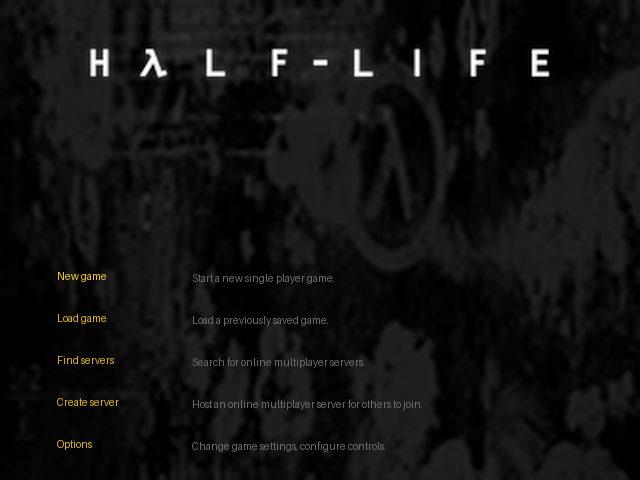
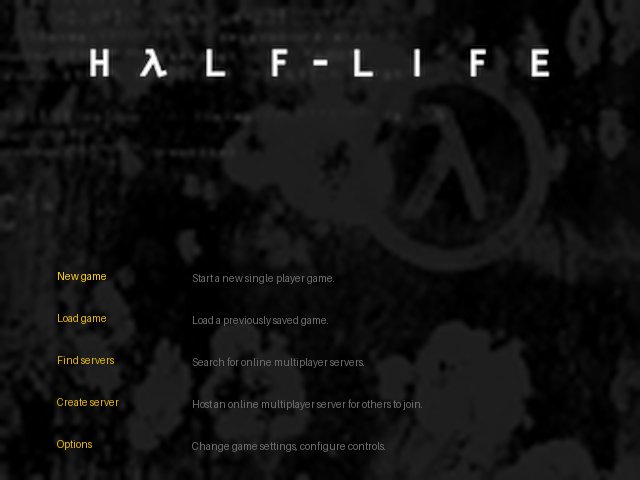
feat: add GameCube menu assets and improve texture handling with aspect ratio fitting for better visual fidelity

diff --git a/ref/gx/r_gx_world.c b/ref/gx/r_gx_world.c
@@ -75,7 +75,7 @@ extern unsigned R_GXGetTriColorRGBA( void );
 
 #define GC_GX_TEX_SLOTS		32
 #define GC_GX_TEX_HUD_RESERVE	4	/* last slots preferred for live HUD sheets */
-#define GC_GX_TEX_MAX_DIM	64	/* MEM1: keep tiled staging lean (32×64²×2 working set) */
+#define GC_GX_TEX_MAX_DIM	128	/* HUD menu background needs the full 128x96 tile */
 /* G199: 4 BSS world tiles (~32 KiB) — 8 tipped clipnodes pin on c0a0. */
 #define GC_GX_TEX_WORLD_POOL	4
 static u16 r_gx_tex_world_pool[GC_GX_TEX_WORLD_POOL][GC_GX_TEX_MAX_DIM * GC_GX_TEX_MAX_DIM]
@@ -211,7 +211,8 @@ static u16 r_gx_tex_linear[GC_GX_TEX_MAX_DIM * GC_GX_TEX_MAX_DIM];
 #define GC_GX_TEX_HUD_SLOT0	( GC_GX_TEX_SLOTS - GC_GX_TEX_HUD_RESERVE )
 
 /* G184: soft TRANSPARENT_COLOR → RGB5A3 with alpha 0 (not opaque black).
- * G187: also punch near-black — crosshair sheets use dark non-255 ink. */
+ * Do not infer transparency from RGB darkness: the retail menu background
+ * is intentionally near-black and must remain opaque. */
 static int r_gx_hud_nearblack_punched;
 static qboolean r_gx_hud_nearblack_logged;
 
@@ -227,12 +228,6 @@ static u16 R_GXSoftToRGB5A3( pixel_t soft )
 	g6 = ( rgb565 >> 5 ) & 63u;
 	b5 = rgb565 & 31u;
 	g5 = g6 >> 1;
-	/* Near-black → α=0 so GX_GREATER alpha-compare drops the texel. */
-	if( r5 <= 1u && g5 <= 1u && b5 <= 1u )
-	{
-		r_gx_hud_nearblack_punched++;
-		return 0;
-	}
 	return (u16)( 0x8000u | ( r5 << 10 ) | ( g5 << 5 ) | b5 );
 }
 
@@ -2955,8 +2950,10 @@ static void R_GXPrepareHud2DState( void )
 	GX_SetVtxAttrFmt( GX_VTXFMT0, GX_VA_CLR0, GX_CLR_RGBA, GX_RGBA8, 0 );
 	GX_SetVtxAttrFmt( GX_VTXFMT0, GX_VA_TEX0, GX_TEX_ST, GX_F32, 0 );
 
-	/* Match soft FB coordinates (y down) onto the full EFB. */
-	guOrtho( ortho, 0.0f, (f32)vid.height, 0.0f, (f32)vid.width, 0.0f, 1.0f );
+	/* Menu/HUD rectangles are expressed in the logical render surface.  GX
+	 * scales that surface through the full EFB viewport; keep X/Y in the
+	 * correct order (the old height/width swap caused the half-screen image). */
+	guOrtho( ortho, 0.0f, (f32)vid.width, 0.0f, (f32)vid.height, 0.0f, 1.0f );
 	GX_LoadProjectionMtx( ortho, GX_ORTHOGRAPHIC );
 	guMtxIdentity( ident );
 	GX_LoadPosMtxImm( ident, GX_PNMTX0 );

diff --git a/scripts/analyze-audio-path.py b/scripts/analyze-audio-path.py
@@ -119,23 +119,32 @@ def parse_telemetry(path: Path) -> list[dict[str, int]]:
 
 def anomalies(ref: np.ndarray, cand: np.ndarray, offset: int, telemetry: list[dict[str, int]]) -> list[dict[str, object]]:
 	d = (cand[offset:offset + len(ref)] - ref).mean(axis=1)
+	# Do not hide one-sample holes inside a low-RMS 1024-frame block.  Those
+	# are the signature of a ring/DMA discontinuity, not harmless quantization.
+	bad = np.flatnonzero(np.abs(d) >= 0.01)
 	rows = []
-	for frame in range(0, len(d), 1024):
-		block = d[frame:frame + 1024]
-		rms = float(np.sqrt(np.mean(block * block)))
-		if rms < 0.01:
-			continue
-		second = min(10, frame // 48000 + 1)
+	if len(bad):
+		groups = np.split(bad, np.flatnonzero(np.diff(bad) > 1) + 1)
+	else:
+		groups = []
+	for group in groups:
+		start = int(group[0])
+		end = int(group[-1]) + 1
+		block = d[start:end]
+		frame = (start // 1024) * 1024
+		second = min(10, start // 48000 + 1)
 		near = min(telemetry, key=lambda x: abs(x["second"] - second), default={})
 		rows.append({
-			"frame": frame,
+			"frame": start,
+			"run_frames": end - start,
+			"anomaly_kind": "sample_impulse" if end - start <= 4 else "contiguous_residual",
 			"callback_index": frame // 1024,
 			"callback_bytes": 4096,
-			"ring_frame": frame % 8192,
-			"residual_rms": rms,
+			"ring_frame": start % 8192,
+			"residual_rms": float(np.sqrt(np.mean(block * block))),
 			"residual_peak": float(np.max(np.abs(block))),
-			"waveform_before": np.rint(cand[offset + max(0, frame - 8):offset + frame].mean(axis=1) * 32768).astype(int).tolist(),
-			"waveform_after": np.rint(cand[offset + frame + 1024:offset + frame + 1032].mean(axis=1) * 32768).astype(int).tolist(),
+			"waveform_before": np.rint(cand[offset + max(0, start - 8):offset + start].mean(axis=1) * 32768).astype(int).tolist(),
+			"waveform_after": np.rint(cand[offset + end:offset + end + 8].mean(axis=1) * 32768).astype(int).tolist(),
 			"telemetry": near,
 		})
 	return rows

diff --git a/scripts/build-gamecube-disc.py b/scripts/build-gamecube-disc.py
@@ -633,6 +633,25 @@ def _gc_menu_preserve_retail_tone(image):
 	return rgb.convert("RGBA")
 
 
+def _gc_menu_fit_aspect(image, size):
+	"""Crop wide retail layouts before fitting the fixed 4:3 GC menu canvas."""
+	target_w, target_h = size
+	src_w, src_h = image.size
+	if not src_w or not src_h or not target_w or not target_h:
+		return image.resize(size)
+	src_aspect = src_w / float(src_h)
+	target_aspect = target_w / float(target_h)
+	if src_aspect > target_aspect:
+		crop_w = max(1, int(round(src_h * target_aspect)))
+		left = (src_w - crop_w) // 2
+		image = image.crop((left, 0, left + crop_w, src_h))
+	elif src_aspect < target_aspect:
+		crop_h = max(1, int(round(src_w / target_aspect)))
+		top = (src_h - crop_h) // 2
+		image = image.crop((0, top, src_w, top + crop_h))
+	return image.resize(size)
+
+
 def _gc_menu_synthetic_background(size: tuple[int, int]):
 	"""Fallback when retail tiles are missing or pure black placeholders."""
 	from PIL import Image
@@ -690,10 +709,11 @@ def stage_gc_menu_assets(source: Path, output: Path) -> bool:
 	menu_dir = output / "resource" / "gc_menu"
 	menu_dir.mkdir(parents=True, exist_ok=True)
 
-	# 128x96 keeps the transient RGBA decode buffer under 50 KiB for MEM1 menu boot.
+	# Keep the baked menu at the native 4:3 logical aspect. The GX HUD upload
+	# path retains the tiled 128x96 dimensions directly.
 	if best is not None and best_ratio >= 0.02:
 		background = _gc_menu_preserve_retail_tone(
-			best.resize((128, 96), Image.Resampling.LANCZOS))
+			_gc_menu_fit_aspect(best, (128, 96)))
 		source_note = best_label
 	else:
 		background = _gc_menu_synthetic_background((128, 96))

diff --git a/engine/client/dll_int/cl_gameui.c b/engine/client/dll_int/cl_gameui.c
@@ -53,6 +53,10 @@ typedef struct gc_menu_bg_piece_s
 	int y;
 	int w;
 	int h;
+	float s0;
+	float t0;
+	float s1;
+	float t1;
 } gc_menu_bg_piece_t;
 static gc_menu_bg_piece_t gc_menu_background[GC_MENU_MAX_BG_PIECES];
 static int gc_menu_background_count;
@@ -127,6 +131,10 @@ static void UI_GCLoadFallbackMenuLayout( void )
 		if( !pfile )
 			break;
 		piece->y = Q_atoi( token );
+		piece->s0 = 0.0f;
+		piece->t0 = 0.0f;
+		piece->s1 = 1.0f;
+		piece->t1 = 1.0f;
 
 		piece_count++;
 	}
@@ -178,7 +186,11 @@ static void UI_GCLoadFallbackMenuTextures( void )
 			piece->x = 0;
 			piece->y = 0;
 			piece->w = baked_w;
-			piece->h = baked_h;
+			piece->h = gc_menu_background_height;
+			piece->s0 = 0.0f;
+			piece->t0 = 0.0f;
+			piece->s1 = 1.0f;
+			piece->t1 = 1.0f;
 		}
 	}
 
@@ -208,6 +220,10 @@ static void UI_GCLoadFallbackMenuTextures( void )
 				piece->y = ( row == 0 ) ? 0 : ( row == 1 ) ? 256 : 512;
 				piece->w = source_widths[col];
 				piece->h = source_heights[row];
+				piece->s0 = 0.0f;
+				piece->t0 = 0.0f;
+				piece->s1 = 1.0f;
+				piece->t1 = 1.0f;
 			}
 		}
 	}
@@ -248,7 +264,8 @@ static void UI_GCDrawFallbackMenuBackground( void )
 		else
 			ref.dllFuncs.Color4ub( 150, 150, 150, 255 );
 		ref.dllFuncs.R_DrawStretchPic( piece->x * scale_x, piece->y * scale_y,
-			piece->w * scale_x, piece->h * scale_y, 0, 0, 1, 1, piece->texnum );
+			piece->w * scale_x, piece->h * scale_y, piece->s0, piece->t0,
+			piece->s1, piece->t1, piece->texnum );
 	}
 
 	if( !gc_menu_use_baked_retail )

diff --git a/engine/client/sound/s_main.c b/engine/client/sound/s_main.c
@@ -1644,7 +1644,12 @@ static void S_UpdateChannels( void )
 
 #if XASH_GAMECUBE
 		if( AVI_IsSoundtrackActive() && mixahead > 0.04f )
-			mixahead = 0.04f;
+			/* The native intro is presented at 15 fps (~66 ms), while the
+			 * ASND callback consumes 1024 stereo frames (~21 ms).  A 40 ms
+			 * paint-ahead cap can therefore expose stale data in the DMA ring
+			 * between cinematic frames.  Keep the bound below the 8192-frame
+			 * GameCube ring, but cover at least one video-frame interval. */
+			mixahead = 0.12f;
 #endif
 		endtime = snd.soundtime + mixahead * SOUND_DMA_SPEED;
 	}

diff --git a/scripts/render-gc-menu-screenshot.py b/scripts/render-gc-menu-screenshot.py
@@ -103,7 +103,8 @@ def main() -> int:
 	out_dir = args.out_dir.resolve()
 	out_dir.mkdir(parents=True, exist_ok=True)
 
-	retail = retail_reference(source).resize((640, 480), load_pil()[0].Resampling.LANCZOS)
+	disc = import_disc_builder()
+	retail = disc._gc_menu_fit_aspect(retail_reference(source), (640, 480))
 	retail_path = out_dir / "retail-main-menu-reference.png"
 	retail.save(retail_path)
 
